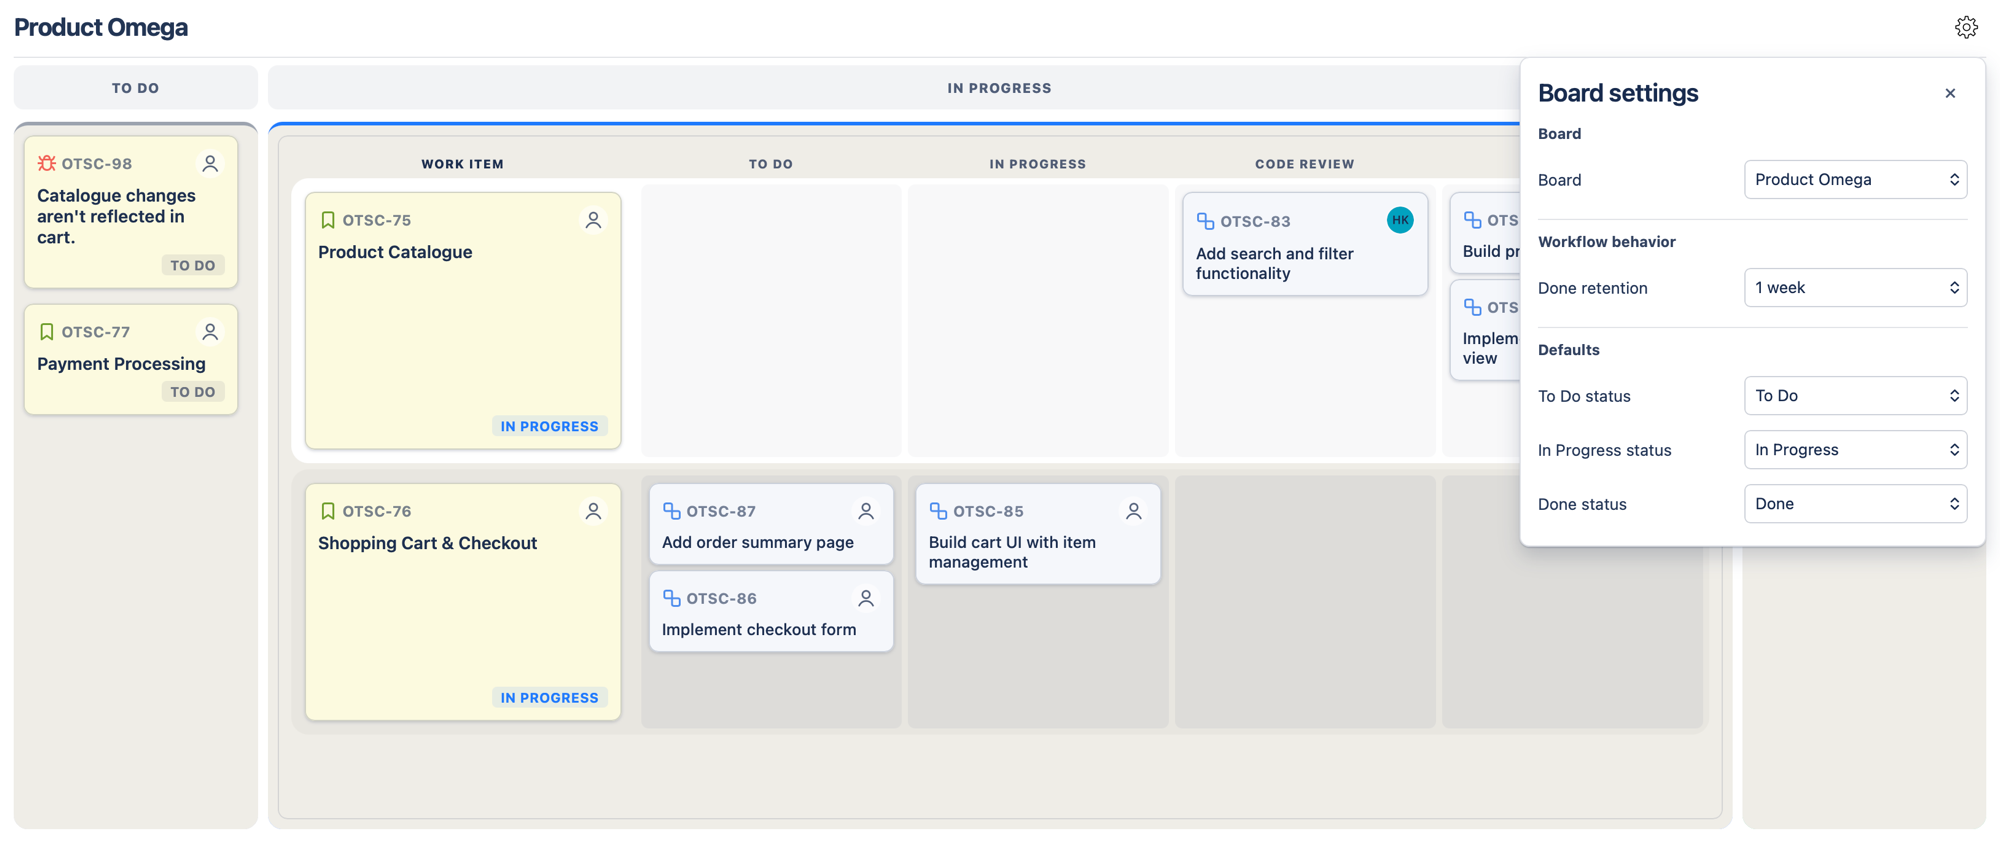
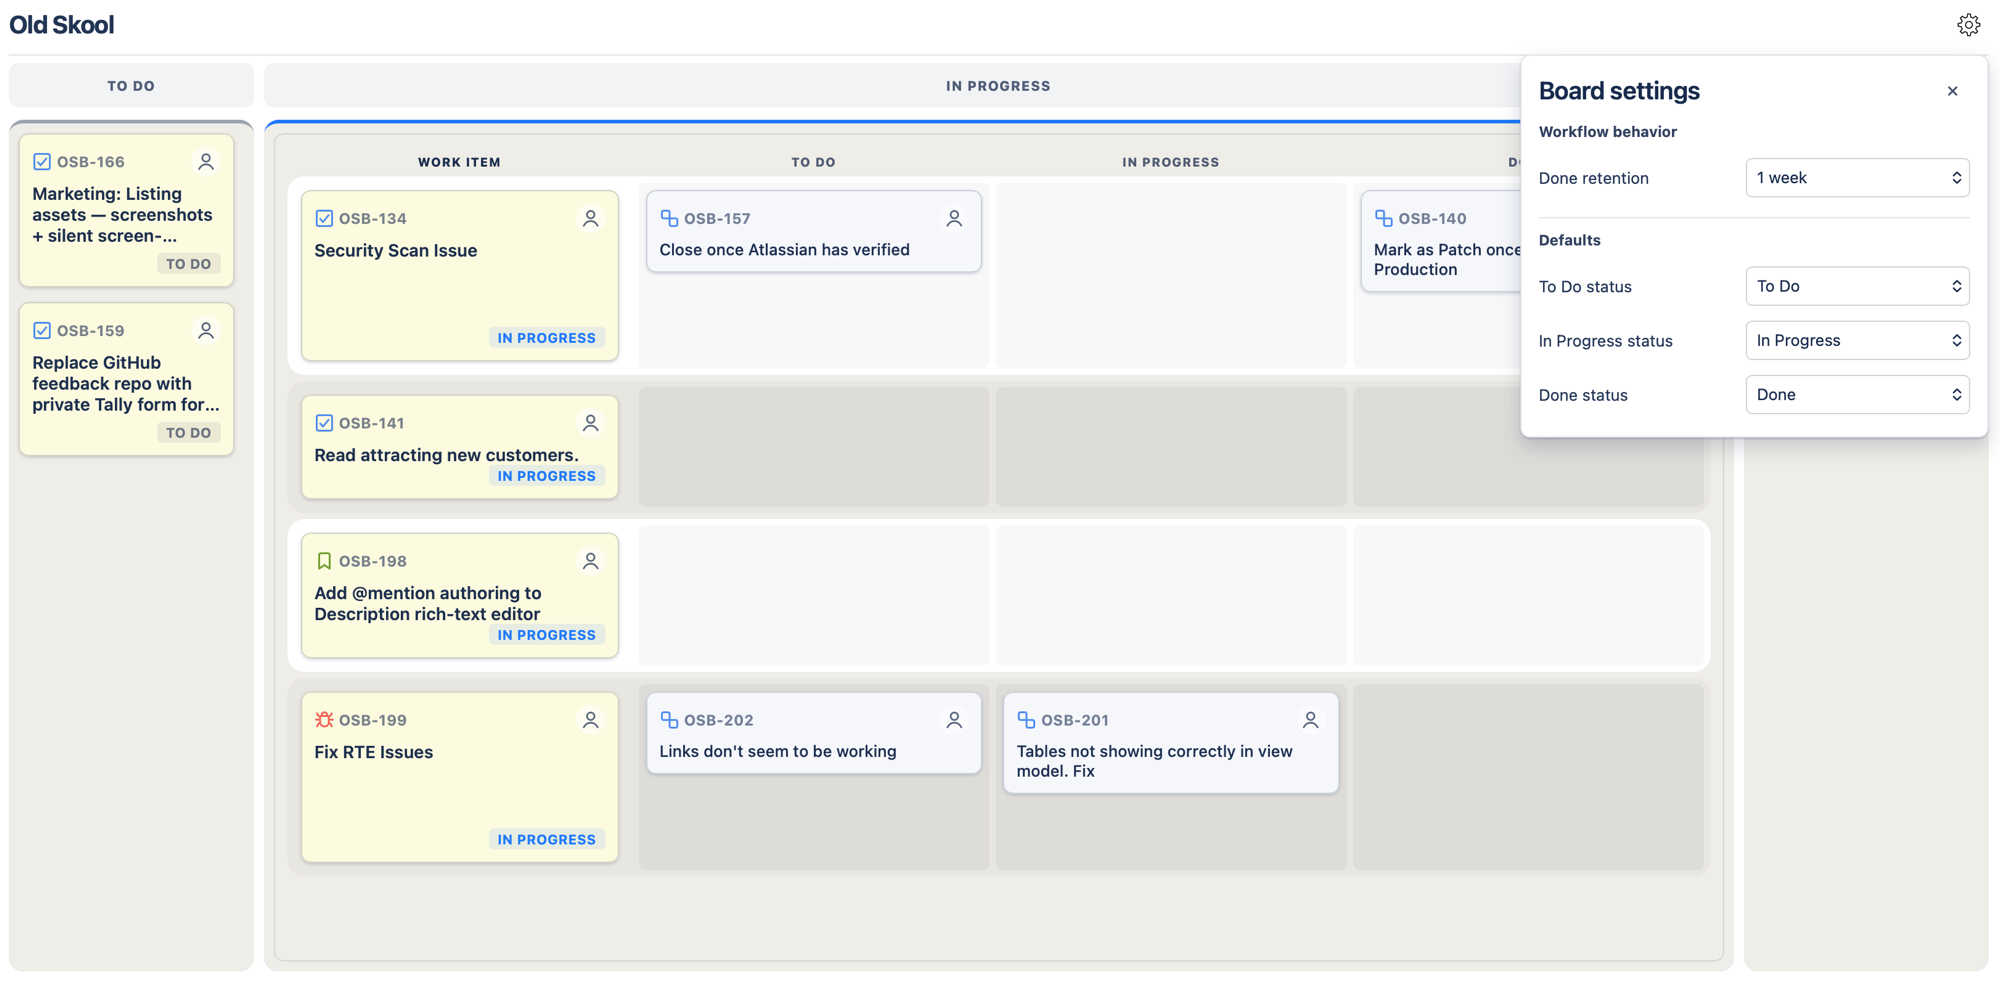
Update docs and screenshots to reflect Jira Software board requirement
- Add 'How Old Skool Board works' section to getting-started
- Add Jira Software board requirement bullet point
- Remove redundant 'An existing Jira board' bullet point
- Remove 'Board — switch to a different Jira board' settings bullet
- Replace board-settings.png and hiding-complete-items.png screenshots

diff --git a/docs/getting-started.html b/docs/getting-started.html
@@ -45,13 +45,21 @@
         <div class="page-body">
 
           <section>
+            <h2>How Old Skool Board works</h2>
+            <div class="content">
+              <p>Old Skool Board is an extension of a Jira Software board — there is no need to create new boards from scratch. When you open it, it reads the configuration of whichever board you're currently viewing — columns, statuses, and board type (Kanban or Scrum) — and mirrors that setup automatically.</p>
+              <p>It picks up where your board leaves off.</p>
+            </div>
+          </section>
+
+          <section>
             <h2>Requirements</h2>
             <div class="content">
               <ul>
+                <li><strong>Jira Software board</strong> — designed to work with existing Scrum or Kanban boards; other board types are not supported</li>
                 <li><strong>Jira Cloud</strong> — Server and Data Center are not supported</li>
                 <li><strong>Desktop browser</strong> — mobile and tablet are not supported</li>
                 <li><strong>Parent items with sub-tasks</strong> — the board's value comes from that relationship; it has limited use for flat issue structures</li>
-                <li><strong>An existing Jira board</strong> — Kanban or Scrum — in the project you want to view</li>
               </ul>
             </div>
           </section>
@@ -92,7 +100,6 @@
             <div class="content">
               <p>Click the <strong>settings icon</strong> in the top-right corner of the board to open the Board settings panel. From here you can:</p>
               <ul>
-                <li><strong>Board</strong> — switch to a different Jira board</li>
                 <li><strong>To Do / In Progress / Done status</strong> — map your project's workflow statuses to the three board columns</li>
                 <li><strong>Done retention</strong> (Kanban only) — control how long completed items remain visible before being archived</li>
               </ul>